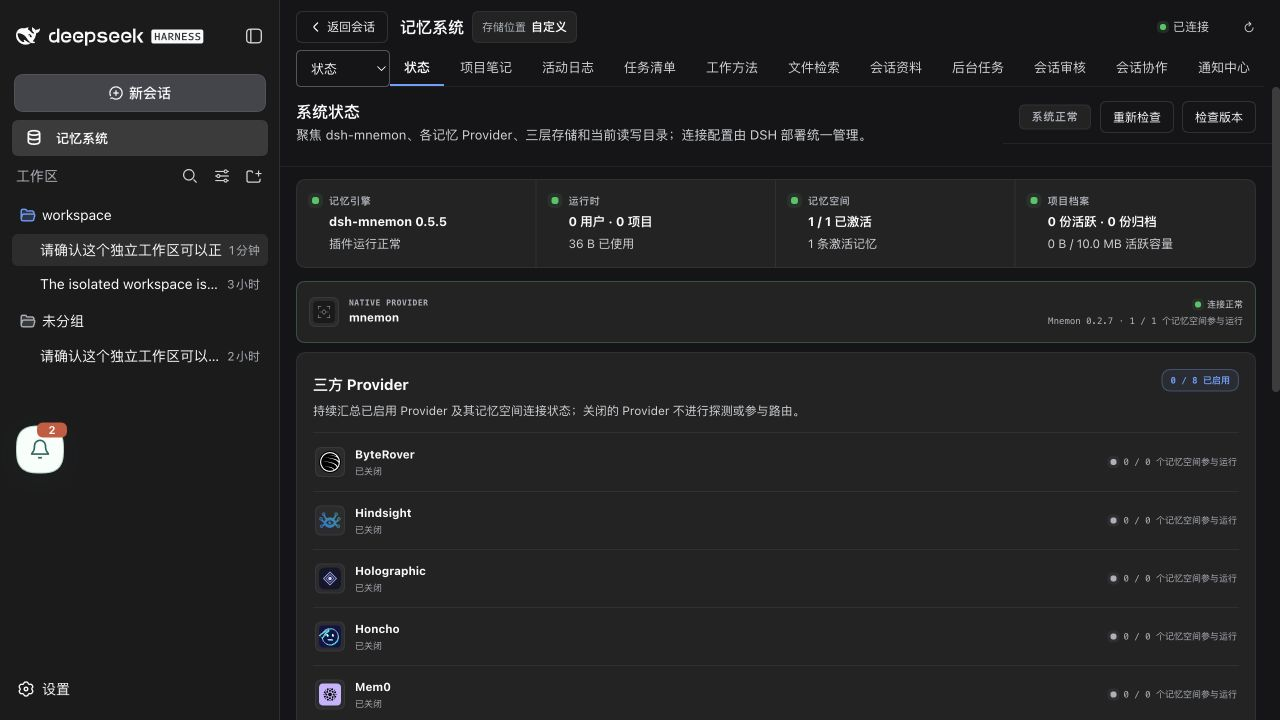
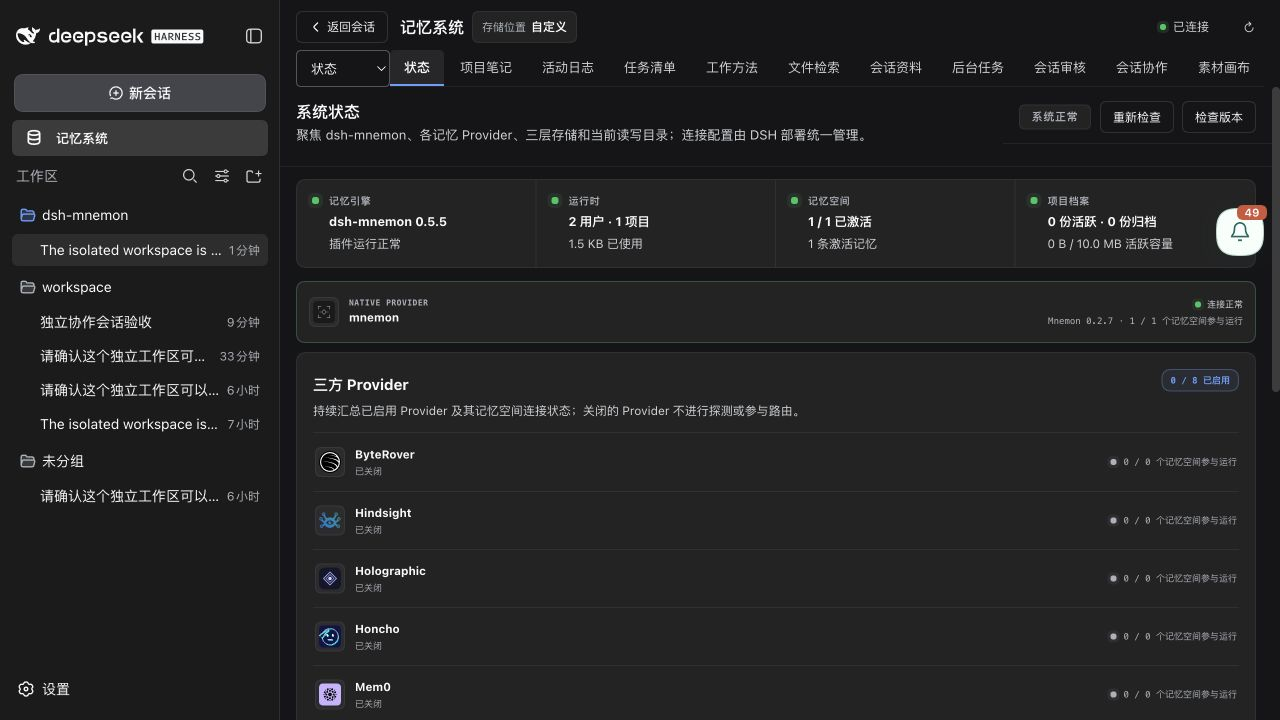
fix(workspace): follow active projects and complete instruction library controls

diff --git a/plugins/dsh-mnemon-source-playbooks/src/client.tsx b/plugins/dsh-mnemon-source-playbooks/src/client.tsx
@@ -1,8 +1,10 @@
 import { SkillFiles } from './file-client.tsx'
+import { LibraryViews } from './library-client.tsx'
 import { installMemorySourceUI, type MemorySourcePageProps, type MemorySourceUIContext } from 'dsh-mnemon/client'
 import { createCollectionPage, RecordActionPanel, type RecordActionPanelOptions } from 'dsh-mnemon-workspace-kit/client'
 export const inject = ['slots']
 const LibraryPage = createCollectionPage({
+  renderRecords: context => <LibraryViews {...context} />,
   "title": {
     "en": "Playbooks",
     "zh-CN": "工作方法"
@@ -87,5 +89,11 @@ const invokeOptions: RecordActionPanelOptions = {
   result: (value, zh) => value && typeof value === 'object' && !Array.isArray(value) && typeof value.text === 'string' ? <pre style={{whiteSpace:'pre-wrap'}}>{value.text}</pre> : <p>{zh ? '已保存。刷新调度面板查看状态。' : 'Saved. Refresh schedules to see their status.'}</p>,
 }
 const scheduleOptions: RecordActionPanelOptions = { title: { en: 'Session schedules', 'zh-CN': '会话调度' }, filter: record => record.kind === 'schedule', buttons: [{ operation: 'stop-schedule', label: { en: 'Stop schedule', 'zh-CN': '停止调度' }, visible: record => record.data.status === 'scheduled' }], details: (record, zh) => <p>{zh ? '状态' : 'Status'}: {String(record.data.status)} · {zh ? '使用次数' : 'Uses'}: {String(record.data.uses)} · {zh ? '剩余次数' : 'Remaining'}: {record.data.status === 'completed' ? '0' : record.data.continuous ? (zh ? '持续' : 'Continuous') : String(record.data.remaining)}<br />{typeof record.data.error === 'string' ? record.data.error : ''}</p> }
-export function Page(props: MemorySourcePageProps) { return <><LibraryPage {...props} /><hr /><RecordActionPanel {...props} options={invokeOptions} /><RecordActionPanel {...props} options={scheduleOptions} /><SkillFiles {...props} /></> }
+const categoryOptions: RecordActionPanelOptions = {
+  title: { en: 'Organize categories', 'zh-CN': '整理分类' }, filter: record => ['prompt', 'skill'].includes(record.kind) && !!record.data.category && record.state !== 'deleted',
+  fields: [{ key: 'category', label: { en: 'New category name', 'zh-CN': '新分类名称' }, type: 'text' }],
+  buttons: [{ operation: 'rename-category', label: { en: 'Rename this category', 'zh-CN': '重命名此分类' } }, { operation: 'clear-category', label: { en: 'Remove this category', 'zh-CN': '移除此分类' } }],
+  details: (record, zh) => <p>{zh ? '本次将修改所选条目同一作用域内的整个分类，保留方法正文与历史。当前分类：' : 'Changes this entire category within the selected record’s scope, preserving contents and history. Current category: '}{String(record.data.category)} · {record.scope}</p>,
+}
+export function Page(props: MemorySourcePageProps) { return <><LibraryPage {...props} /><hr /><RecordActionPanel {...props} options={categoryOptions} /><RecordActionPanel {...props} options={invokeOptions} /><RecordActionPanel {...props} options={scheduleOptions} /><SkillFiles {...props} /></> }
 export function apply(ctx: MemorySourceUIContext): void { installMemorySourceUI(ctx, { sourceTypeId: 'playbooks', pages: [{ id: 'records', label: 'Playbooks', localizedLabel: { en: 'Playbooks', 'zh-CN': '工作方法' }, order: 44, component: Page, navigation: { group: 'sources', primary: true } }] }) }

diff --git a/plugins/dsh-mnemon-source-playbooks/src/index.ts b/plugins/dsh-mnemon-source-playbooks/src/index.ts
@@ -1,5 +1,6 @@
 import { SessionId } from '@deepseek-ai/dsh-session'
 import { promptActions, promptOperation } from './actions.ts'
+import { libraryFields } from './library.ts'
 import { createMemoryMutationReceipt } from 'dsh-mnemon/extension-sdk'
 import type { Context } from '@deepseek-ai/cordis'
 import { createUserMessage } from '@deepseek-ai/dsh-llm'
@@ -21,7 +22,7 @@ export const memoryPlugin = defineMemoryPlugin({ packageName: name, label: { en:
 interface Integration { ctx?: Context; attach?(store: RecordStore): void; changed?(): void; adapter?: DshWorkspaceAdapter }
 export function createPlaybooksSource(config: Config = {}, integration: Integration = {}): MemorySourceDefinition {
   const base = createRecordSource(sourceOptions, config)
-  return { ...base, manifest: { ...base.manifest, actions: [...base.manifest.actions ?? [], ...promptActions] }, create(context) {
+  return { ...base, manifest: { ...base.manifest, routes: (base.manifest.routes ?? []).map(route => ({ ...route, inputSchema: { ...(route.inputSchema as object), properties: { ...((route.inputSchema as { properties: object }).properties), ...libraryFields } } })), actions: [...base.manifest.actions ?? [], ...promptActions] }, create(context) {
     const runtime = base.create(context), store = new RecordStore(sourceRecordDirectory('playbooks', context, config))
     integration.attach?.(store)
     const stop = integration.ctx ? installAgentHooks(integration.ctx, { async beforeStep(input) {
@@ -91,11 +92,12 @@ export function createPlaybooksSource(config: Config = {}, integration: Integrat
         const action = promptActions.find(action => action.id === request.offer.sourceActionId)
         if (!action) { const result = await runtime.mutate!(request); integration.changed?.(); return result }
         if (request.offer.authority !== action.authority) throw new Error('Explicit prompt authority is required')
-        const input = memoryInputRecord(request.input, 'prompt action'), snapshot = await store.read(request.signal), operation = promptOperation[action.id as keyof typeof promptOperation]
+        const input = { ...memoryInputRecord(request.input, 'prompt action') }, snapshot = await store.read(request.signal), operation = promptOperation[action.id as keyof typeof promptOperation]
         if (operation !== 'create') {
           const record = snapshot.records.find(value => value.id === input.id && visibleRecord(value, request.view.scope))
           if (!record || record.version !== input.version) throw new Error('Prompt version changed; read the current record before retrying')
           if (operation === 'update' && record.kind !== 'prompt') throw new Error('Only reusable prompts can be updated through this action')
+          if (operation === 'update' && input.data !== undefined) input.data = { ...record.data, ...memoryInputRecord(input.data, 'prompt data') }
         }
         const result = await enhanced.manage!({ sourceInstanceKey: context.sourceInstanceKey, scope: request.view.scope, mode: 'mutate', operation, input: { ...input, ...(operation === 'create' ? { kind: 'prompt' } : {}) }, expectedRevision: snapshot.revision, confirmed: true, ...(request.signal ? { signal: request.signal } : {}) })
         const records = (result.value as unknown as { records: import('dsh-mnemon-workspace-kit').RecordValue[] }).records

diff --git a/tests/client-sidebar.spec.tsx b/tests/client-sidebar.spec.tsx
@@ -134,7 +134,7 @@ function receiverSensitiveStore<T>(snapshot: T) {
 }
 
 const settings = {
-  getSnapshot: () => ({ status: 'ready' as const, value: {}, writable: true, mode: 'host' as const }),
+  getSnapshot: () => ({ status: 'ready' as const, value: { storageScope: 'workspace' as const }, writable: true, mode: 'host' as const }),
   subscribe: () => () => {}, set: async () => {}, unset: async () => {}, setPath: async () => {}, unsetPath: async () => {},
 }
 const sourcePageDirectory = { getSnapshot: () => [] as const, subscribe: () => () => {} }
@@ -452,7 +452,7 @@ describe('Mnemon canonical workspace launcher', () => {
     ctx.sessions.list = sessions
     ctx.workspaces.list = workspaces
     render(<MnemonWorkspaceHost
-      connection={ctx.connection as never} settingsScope={settings} sessions={ctx.sessions as never} workspaces={ctx.workspaces as never}
+      connection={ctx.connection as never} settingsScope={{ ...settings, getSnapshot: () => ({ ...settings.getSnapshot(), value: { storageScope: 'workspace' as const } }) }} sessions={ctx.sessions as never} workspaces={ctx.workspaces as never}
       localeRuntime={ctx.locale as never} sourcePageDirectory={sourcePageDirectory} navigation={{ open() {}, close() {} }}
       t={t as never} renderSlot={() => null} sessionId="session-1"
     />)
@@ -464,6 +464,20 @@ describe('Mnemon canonical workspace launcher', () => {
     await waitFor(() => expect(document.querySelector('[data-testid="mnemon-canonical-content"]')?.getAttribute('data-workspace-id')).toBe('workspace-2'))
     fireEvent.click([...document.querySelectorAll<HTMLButtonElement>('button')].find(button => button.textContent === 'align-test-workspace')!)
     await waitFor(() => expect(document.querySelector('[data-testid="mnemon-canonical-content"]')?.getAttribute('data-workspace-id')).toBe('workspace-1'))
+  })
+
+  it.each(['global', 'custom'] as const)('follows the active conversation workspace in %s storage without a hidden sticky inspection target', async storageScope => {
+    const ctx = context(), scope = { ...settings, getSnapshot: () => ({ ...settings.getSnapshot(), value: { storageScope } }) }
+    const props = { connection: ctx.connection as never, settingsScope: scope, sessions: ctx.sessions as never, workspaces: ctx.workspaces as never, localeRuntime: ctx.locale as never, sourcePageDirectory, t: t as never }
+    const view = render(<MnemonWorkspaceHost {...props} sessionId="session-1" cwd="/tmp/workspace-one" />)
+    const content = view.getByTestId('mnemon-canonical-content')
+    expect(content.dataset.workspaceId).toBe('workspace-1')
+    view.rerender(<MnemonWorkspaceHost {...props} sessionId="session-2" cwd="/tmp/workspace-two" />)
+    expect(content.dataset.workspaceId).toBe('workspace-2')
+    fireEvent.change(view.getByLabelText('workspace-test-selector'), { target: { value: 'workspace-1' } })
+    expect(content.dataset.workspaceId).toBe('workspace-2')
+    view.rerender(<MnemonWorkspaceHost {...props} sessionId="session-1" cwd="/tmp/workspace-one" />)
+    expect(content.dataset.workspaceId).toBe('workspace-1')
   })
 
   it('renders Builtin with only its owning session and releases a receiver-sensitive locale subscription', () => {

diff --git a/plugins/dsh-mnemon-source-playbooks/src/source.ts b/plugins/dsh-mnemon-source-playbooks/src/source.ts
@@ -1,4 +1,6 @@
 import { reviseRecord, visibleRecord, type RecordSourceOptions } from 'dsh-mnemon-workspace-kit'
+import { memoryInputText } from 'dsh-mnemon/extension-sdk'
+import { filterLibrary } from './library.ts'
 export const sourceOptions: RecordSourceOptions = {
   transfer: true,
   typeId: 'playbooks', role: 'instruction-library', label: 'Playbooks', description: 'Approved reusable skills and prompts with progressive disclosure.',
@@ -15,12 +17,20 @@ export const sourceOptions: RecordSourceOptions = {
     if (record.data.category !== undefined && (typeof record.data.category !== 'string' || record.data.category.length > 100)) throw new Error('Invalid category')
   },
   visible(record) { return record.data.enabled !== false },
+  search: filterLibrary,
   project(records) { return 'Approved playbooks (read the full content before use):\n' + records.filter(record => record.kind !== 'schedule' && record.data.enabled !== false).map(record => `${record.id} · ${record.kind} · ${record.title}${record.data.category ? ' · ' + String(record.data.category) : ''}`).join('\n') + '\nSession prompt schedules: ' + records.filter(record => record.kind === 'schedule').map(record => `${record.id}: ${String(record.data.status)}, uses=${String(record.data.uses)}`).join('; ') },
   mutate(operation, input, { records, scope }) {
-    if (operation !== 'toggle') throw new Error('Unsupported playbook operation')
+    if (!['toggle', 'rename-category', 'clear-category'].includes(operation)) throw new Error('Unsupported playbook operation')
     const record = records.find(record => record.id === input.id && visibleRecord(record, scope))
     if (!record) throw new Error('Playbook not found')
     if (input.version !== undefined && input.version !== record.version) throw new Error('Playbook version changed')
+    if (operation !== 'toggle') {
+      const previous = record.data.category
+      if (!['prompt', 'skill'].includes(record.kind) || typeof previous !== 'string' || !previous) throw new Error('Choose a categorized playbook')
+      const category = operation === 'clear-category' ? '' : memoryInputText(input.category, 'category', 100)!
+      for (const item of records) if (['prompt', 'skill'].includes(item.kind) && item.state !== 'deleted' && item.scope === record.scope && item.workspaceId === record.workspaceId && item.sessionId === record.sessionId && item.data.category === previous && visibleRecord(item, scope)) { reviseRecord(item, operation); item.data.category = category }
+      return
+    }
     reviseRecord(record, 'toggle'); record.data.enabled = !record.data.enabled
   },
 }

diff --git a/plugins/dsh-mnemon-source-playbooks/src/library-client.tsx b/plugins/dsh-mnemon-source-playbooks/src/library-client.tsx
@@ -1,0 +1,15 @@
+import { useState, type ReactNode } from 'react'
+import type { MemorySourcePageProps } from 'dsh-mnemon/client'
+import type { RecordValue } from 'dsh-mnemon-workspace-kit'
+import { filterLibrary } from './library.ts'
+
+export function LibraryViews({ props, records, renderRecord }: { props: MemorySourcePageProps; records: RecordValue[]; renderRecord(record: RecordValue): ReactNode }) {
+  const zh = props.locale.startsWith('zh'), [filters, setFilters] = useState({ name: '', category: '', tag: '', summary: '' }), [limit, setLimit] = useState(25)
+  const labels = { name: zh ? '方法名称' : 'Playbook name', category: zh ? '方法分类' : 'Playbook category', tag: zh ? '标签筛选' : 'Filter tags', summary: zh ? '简介筛选' : 'Filter descriptions' }
+  const categories = [...new Set(records.flatMap(record => typeof record.data.category === 'string' && record.data.category ? [record.data.category] : []))].sort()
+  const filtered = filterLibrary(records, filters)
+  return <div><div aria-label={zh ? '方法筛选' : 'Playbook filters'} style={{ display: 'grid', gridTemplateColumns: 'repeat(auto-fit,minmax(140px,1fr))', gap: 12, margin: '16px 0' }}>{(Object.keys(labels) as Array<keyof typeof labels>).map(key => <label key={key}>{labels[key]}{key === 'category' ? <select value={filters.category} onChange={event => { setFilters(old => ({ ...old, category: event.target.value })); setLimit(25) }}><option value="">{zh ? '全部分类' : 'All categories'}</option>{categories.map(category => <option key={category}>{category}</option>)}</select> : <input value={filters[key]} onChange={event => { setFilters(old => ({ ...old, [key]: event.target.value })); setLimit(25) }} />}</label>)}</div>
+    <button onClick={() => { setFilters({ name: '', category: '', tag: '', summary: '' }); setLimit(25) }}>{zh ? '清除方法筛选' : 'Clear playbook filters'}</button><p aria-live="polite">{filtered.length} {zh ? '项匹配方法' : 'matching playbooks'}</p>
+    <div className="mc-list">{filtered.slice(0, limit).map(renderRecord)}</div>{filtered.length > limit && <button onClick={() => setLimit(old => old + 25)}>{zh ? '加载更多方法' : 'Load more playbooks'}</button>}
+  </div>
+}

diff --git a/src/client/workspace-mount.tsx b/src/client/workspace-mount.tsx
@@ -108,6 +108,12 @@ export function MnemonBuiltinWorkspaceHost(props: MnemonBuiltinWorkspaceHostProp
 
 /** Shared workspace body; its DSH registration owns Source child-render authority. */
 export function MnemonWorkspaceHost(props: MnemonWorkspaceHostProps): JSX.Element {
+  const subscribeStorageMode = useCallback((listener: () => void) => props.settingsScope.subscribe(listener), [props.settingsScope])
+  const getStorageMode = useCallback(() => {
+    const config = props.settingsScope.getSnapshot().value
+    return config?.storageScope ?? (config?.dataDir?.trim() ? 'custom' : 'global')
+  }, [props.settingsScope])
+  const storageMode = useSyncExternalStore(subscribeStorageMode, getStorageMode, getStorageMode)
   const subscribeLocale = useCallback((listener: () => void) => props.localeRuntime.subscribe(listener), [props.localeRuntime])
   const getLocale = useCallback(() => props.localeRuntime.getSnapshot(), [props.localeRuntime])
   const subscribeSessions = useCallback((listener: () => void) => props.sessions.list.subscribe(listener), [props.sessions.list])
@@ -125,7 +131,9 @@ export function MnemonWorkspaceHost(props: MnemonWorkspaceHostProps): JSX.Elemen
     : workspaces.items.find(workspace => normalizePath(workspace.path) === normalizePath(currentCwd))
   const fallbackWorkspace = effectiveWorkspace ?? workspaces.items[0]
   const selectedExists = selectedWorkspaceId !== undefined && workspaces.items.some(workspace => String(workspace.workspaceId) === selectedWorkspaceId)
-  const resolvedSelectedId = selectedExists ? selectedWorkspaceId : fallbackWorkspace === undefined ? undefined : String(fallbackWorkspace.workspaceId)
+  // Only Workspace mode exposes a persistent inspection picker. Other modes
+  // follow the current conversation so an invisible old selection cannot win.
+  const resolvedSelectedId = storageMode === 'workspace' && selectedExists ? selectedWorkspaceId : fallbackWorkspace === undefined ? undefined : String(fallbackWorkspace.workspaceId)
 
   useEffect(() => {
     if (resolvedSelectedId !== selectedWorkspaceId) setSelectedWorkspaceId(resolvedSelectedId)

diff --git a/plugins/dsh-mnemon-source-playbooks/tests/actions.spec.ts b/plugins/dsh-mnemon-source-playbooks/tests/actions.spec.ts
@@ -17,8 +17,16 @@ it('gates prompt authoring and invocation, rejects stale versions and duplicate 
     const action = (id: string) => turn.view.actionOffers.find(value => value.sourceActionId === id)!.id
     await expect(turn.executeAction(action('create-prompt'), { title: 'Check', content: 'Inspect {{target}}', data: { tags: 'quality', summary: 'Check results' } }, () => false)).rejects.toThrow(/authoriz/i)
     const created = await turn.executeAction(action('create-prompt'), { title: 'Check', content: 'Inspect {{target}}', data: { tags: 'quality', summary: 'Check results' } }, () => true)
-    const book = created.details as { id: string; version: number }
+    let book = created.details as { id: string; version: number }
     expect(book.id).toBeTypeOf('string')
+    const updated = await turn.executeAction(action('update-prompt'), { id: book.id, version: book.version, data: { summary: 'Validate exact results', category: 'Quality' } }, () => true)
+    book = updated.details as { id: string; version: number }
+    const read = await runner.beginTurn({ scope: { storage: 'custom', workspaceId: '/project', sessionId: 'one' } })
+    const route = read.view.routes.find(route => route.sourceRouteId === 'search')!
+    const found = await read.executeRoute(route.id, { name: 'check', category: 'Quality', tag: 'quality', summary: 'exact' })
+    expect(found.items).toHaveLength(1)
+    expect(found.items[0]?.text).toContain('"enabled":true')
+    expect((await read.executeRoute(route.id, { name: 'check', category: 'Other' })).items).toHaveLength(0)
     await expect(turn.executeAction(action('use-prompt'), { id: book.id, version: 99 }, () => true)).rejects.toThrow('version changed')
     const scheduled = await turn.executeAction(action('schedule-prompt'), { id: book.id, version: book.version, variables: { target: 'tests' }, count: 0 }, () => true)
     await expect(turn.executeAction(action('schedule-prompt'), { id: book.id, version: book.version, variables: { target: 'tests' } }, () => true)).rejects.toThrow('active schedule')

diff --git a/plugins/dsh-mnemon-source-playbooks/tests/source.spec.ts b/plugins/dsh-mnemon-source-playbooks/tests/source.spec.ts
@@ -14,4 +14,16 @@ describe('playbooks', () => {
    await sourceOptions.mutate!('toggle', { id: record.id }, { records: [record], scope: { storage: 'custom', workspaceId: '/project-a' } })
    expect(record.data.enabled).toBe(false); expect(record.history[0]?.data.enabled).toBe(true)
  })
+ it('renames and removes categories within the selected scope while retaining content and prior metadata', async () => {
+   const first = value({ enabled: true, slug: 'first', category: 'Review' }), second = { ...value({ enabled: true, slug: 'second', category: 'Review' }), id: 'second' }
+   const global = { ...value({ enabled: true, slug: 'global', category: 'Review' }), id: 'global', scope: 'global' as const }, other = { ...value({ enabled: true, slug: 'other', category: 'Review' }), id: 'other', workspaceId: '/project-b' }
+   const records = [first, second, global, other], scope = { storage: 'custom' as const, workspaceId: '/project-a' }
+   await sourceOptions.mutate!('rename-category', { id: first.id, version: 1, category: 'Quality' }, { records, scope })
+   expect(records.map(record => record.data.category)).toEqual(['Quality', 'Quality', 'Review', 'Review'])
+   expect(first.history[0]?.data.category).toBe('Review')
+   expect(first.content).toBe('Content')
+   await expect(async () => sourceOptions.mutate!('clear-category', { id: first.id, version: 1 }, { records, scope })).rejects.toThrow('version changed')
+   await sourceOptions.mutate!('clear-category', { id: first.id, version: 2 }, { records, scope })
+   expect(records.map(record => record.data.category)).toEqual(['', '', 'Review', 'Review'])
+ })
 })

diff --git a/plugins/dsh-mnemon-source-playbooks/src/schedule.ts b/plugins/dsh-mnemon-source-playbooks/src/schedule.ts
@@ -1,7 +1,8 @@
 import type { MemoryJsonValue, MemoryOperationScope } from 'dsh-mnemon/contracts'
-import { newRecord, RecordStore, reviseRecord, today, visibleRecord, type RecordValue } from 'dsh-mnemon-workspace-kit'
+import { newRecord, RecordStore, reviseRecord, visibleRecord, type RecordValue } from 'dsh-mnemon-workspace-kit'
 export function renderPrompt(content: string, variables: Record<string, MemoryJsonValue>, scope: MemoryOperationScope): string {
-  const values = { ...variables, date: today(), time: new Date().toISOString().slice(11, 19) + 'Z', workspace: scope.workspaceId ?? '', session: scope.sessionId ?? '' }
+  const timestamp = new Date().toISOString()
+  const values = { ...variables, date: timestamp.slice(0, 10), time: timestamp.slice(11, 19) + 'Z', workspace: scope.workspaceId ?? '', session: scope.sessionId ?? '' }
   const rendered = content.replace(/\{\{\s*([a-zA-Z][a-zA-Z0-9_]*)\s*\}\}/g, (_whole, name: string) => {
     const value = values[name as keyof typeof values]
     if (typeof value !== 'string' && typeof value !== 'number' && typeof value !== 'boolean') throw new Error('Missing prompt variable: ' + name)

diff --git a/plugins/dsh-mnemon-source-playbooks/src/library.ts b/plugins/dsh-mnemon-source-playbooks/src/library.ts
@@ -1,0 +1,15 @@
+import type { MemoryJsonValue } from 'dsh-mnemon/contracts'
+import type { RecordValue } from 'dsh-mnemon-workspace-kit'
+
+export const libraryFields = Object.fromEntries(['name', 'category', 'tag', 'summary'].map(key => [key, { type: 'string', maxLength: 200 }]))
+export function filterLibrary(records: RecordValue[], input: { [key: string]: MemoryJsonValue }): RecordValue[] {
+  const terms = Object.fromEntries(Object.keys(libraryFields).map(key => {
+    const value = input[key]
+    if (value !== undefined && (typeof value !== 'string' || value.length > 200)) throw new Error('Invalid playbook filter: ' + key)
+    return [key, (value ?? '').toString().trim().toLocaleLowerCase()]
+  }))
+  return records.filter(record => (!terms.name || record.title.toLocaleLowerCase().includes(terms.name))
+    && (!terms.category || String(record.data.category ?? '').toLocaleLowerCase() === terms.category)
+    && (!terms.tag || String(record.data.tags ?? '').toLocaleLowerCase().includes(terms.tag))
+    && (!terms.summary || String(record.data.summary ?? '').toLocaleLowerCase().includes(terms.summary)))
+}

diff --git a/docs/en/guides/workspace-services.md b/docs/en/guides/workspace-services.md
@@ -1,0 +1,73 @@
+# Composable workspace services
+
+[简体中文](../../zh-CN/guides/workspace-services.md)
+
+The optional workspace composition combines 15 Sources: the existing Runtime, Documents and Memory Spaces, plus 12 independently installable workspace Sources. The Starter installs their packages with optional entries disabled. Enable the Sources you need and select `workspace` explicitly. The existing three-tier composition remains the default.
+
+## Ownership and composition
+
+A Source owns its store, revisions, proposals, queries, mutations, lifecycle and management UI. Memory Spaces owns its Provider children. Workspace is a complete Strategy that selects public Source capabilities and budgets a single View. Its five independent enhancements are Journal capture, Review cycle, Prompt schedule, Team coordination and Focus. Enhancements contribute pure policies through `dsh-mnemon-strategy-workspace/extension-sdk`; they cannot run commands, write files, send messages or borrow another Source's authority.
+
+`dsh-mnemon-workspace-kit` publishes reusable record, file, asset and DSH adapter utilities. Plugins declare these dependencies and import published exports. The Host authenticates and routes generic operations, owns shared budgets and renders registered Source pages. It has no new business-plugin allowlist. Unloading one Source removes its capabilities while retaining its data.
+
+## Capability map
+
+| Work | Owning component | Behavior |
+|---|---|---|
+| Preferences and working context | Runtime | Separate user profile, scope, revision history and explicit writes |
+| Project decisions and facts | Project context | Branch scopes, candidate review, repeated-signal deduplication, archive and restore |
+| Searchable narratives and long-term recall | Documents; Memory Spaces | Existing document lifecycle and independent Provider-backed stores, including the actual Mnemon CLI |
+| Progress, daily results and feedback | Journal | Dated and branch-attributed entries, exact feedback provenance, result capture and durable write reminders |
+| Personal, work, project and daily tasks | Tasks | Review, priority quadrants, deadlines, status history, combined filters and paging |
+| Reusable instructions and skills | Playbooks | Native skill discovery, configured Markdown file editing, enablement, summaries, tags and scoped category changes |
+| Prompt use | Playbooks; Prompt schedule enhancement | Variable preview, reviewed authoring, one-time use, continuous/interval schedules, explicit immediate wake, usage and stop history |
+| Local information | Files | Explicit roots, file-name/content search, bounded reads, cancellation and real-path checks; instruction files can be inspected through this Source |
+| Conversation history | Sessions | Visible-message search, configured JSONL imports, exact bookmarks with neighboring text, completed-turn forks and aliases |
+| Ordinary conversation operations | Sessions; public DSH adapter | Create, fork, rename, send, explicitly wake/steer, read native presets/models and retain request receipts |
+| Team collaboration | Collaboration | Rooms, membership, directed messages/images, read receipts, presence, archives and file/service/note reservations |
+| Background execution | Agent Jobs | Configured CLI adapters, frozen prompts/context/image copies, reviewed execution, queue/logs/statistics, cancellation, timeout, retry/resume and retention |
+| Conversation review | Review; Review cycle enhancement | Persistent independent reviewer, visible transcript only, layered constraints, question/reset/history, severity and attributed feedback; suggestions transfer into the receiving Source's pending queue |
+| Temporary notes and materials | Canvas | Durable freeform notes, referenced files and copied uploads; media preview, drag/resize/pan/zoom, scoped views, stable references and bounded model reads |
+| Notifications and channel messages | Notifications | Personal inbox, draggable bell, attachments, exact reviewed targets and channel receipts through configurable HTTP bridges or typed transport adapters |
+| Cross-device data | Sync | Explicit project/global export tracks, separate Git snapshots, three-way conflicts, local/remote/both decisions and separately reviewed push |
+| Context and interface settings | Sessions; DSH UI | Public capacity hints, native model/preset settings and session navigation; responsive Source pages |
+| Installed versions and updates | Existing Host and DSH plugin management | Independent package metadata, profile-owned updates and explicit activation |
+
+Categories are derived from saved records. Rename/removal changes only the selected category's own project or global scope and keeps content/history. Creating an item with a new category makes that category available. Prompt filters combine name, exact category, tag and description; full text remains available through search. Immediate use always uses once; an interval of zero also means once. Date/time variables use UTC at invocation.
+
+## Start an isolated development instance
+
+From a clean checkout with published DSH dependencies and a local Mnemon executable:
+
+```sh
+pnpm install --frozen-lockfile
+pnpm build
+pnpm build:plugins
+node scripts/serve-workspace.mjs --state-dir ../services --mnemon /absolute/path/to/mnemon --port 5279 --workspace-plugins
+```
+
+The supervisor copies the selected Mnemon binary, isolates `DSH_HOME` and `MNEMON_DATA_DIR`, and retains the profile, logs, database and synthetic workspace below `--state-dir`. It also writes `workspace.code-workspace`, containing this checkout and the synthetic workspace. Add the actual checkout using DSH's Add workspace button to work with the isolated Git branch. The printed authenticated URL is local access information; keep it out of commits and screenshots.
+
+The fixture model and CLI worker validate orchestration. Explicit test markers drive reviewed tool calls and synthetic token-usage readings. They do not validate model quality, external provider billing or third-party account delivery. `--model configured` uses the caller's configured model environment without storing credentials in the repository. Mnemon Native runs the real CLI on demand; it does not require a permanent daemon. Embedding service configuration is independent.
+
+Send `SIGUSR2` to the printed supervisor PID to restart DSH and retain state. Stop the supervisor to stop its child services; retained data remains. Full supervisor restart reloads fixture/profile generation. The development patch explicitly enables the full composition and uses a larger shared View budget; production configurations should choose their own Sources and budget.
+
+## Data, authority and recovery
+
+Model memory suggestions remain pending until accepted. Session, prompt, process and external-message actions have distinct authority and exact-plan/version checks. Filesystem roots and channel origins are configured explicitly. Cross-session messages and reviewer advice preserve plugin attribution. Execution claims are persisted before effects; uncertain jobs or deliveries require inspection and are not silently replayed.
+
+In Global and Custom storage, project context follows the current conversation. Workspace storage exposes a separate inspection selector with an alignment indicator. Store placement and project identity are distinct. Saved drafts and asynchronous responses cannot cross a changed workspace binding.
+
+Turning off a Source retains its store. Export or back up data before changing roots; switching a root does not migrate data. Sync transfers declared tracks, keeps history, rejects foreign project identity and never pushes automatically. Interrupted schedules retain their reservations. Cleanup is explicit and preserves live jobs and recent unreferenced assets.
+
+Native renderer integration uses public slots and services. Bookmarks use an exact Source-owned reader and a separate native conversation navigation action. The native renderer is not replaced. CLI adapters and notification bridges are explicit integration points; configure the desired installed executable or channel service. The retained local acceptance profile connects only synthetic recipients.
+
+## Verification
+
+```sh
+pnpm verify
+pnpm verify:plugins
+pnpm release:intent
+```
+
+The first command validates documentation, types, deterministic builds, all package/root tests, a real Headless profile and published contents. The artifact gate installs every independent tarball without workspace links and exercises an external consumer, Starter upgrade and optional Strategy activation in real DSH. See the [retained WebUI evidence](../../workspace-context-validation.md) for actual outcomes, screenshots and limitations, and the [implementation inventory](../../plans/composable-workspace-context.md) for ownership criteria.

diff --git a/docs/zh-CN/guides/workspace-services.md b/docs/zh-CN/guides/workspace-services.md
@@ -1,0 +1,73 @@
+# 可组合的工作区服务
+
+[English](../../en/guides/workspace-services.md)
+
+可选工作区组合包含 15 个 Source：已有的 Runtime、Documents、Memory Spaces，以及 12 个可独立安装的工作区 Source。Starter 安装这些软件包，但默认关闭可选入口；按需启用并明确选择 `workspace` 策略。原有三层组合仍为默认值。
+
+## 职责与组合
+
+Source 自己管理存储、版本、建议、检索、修改、生命周期和页面；Memory Spaces 自己管理其 Provider 子插件。Workspace 是完整策略，选择公开能力并为一个 View 分配预算。它有五个独立增强插件：日志记录、审核周期、提示调度、团队协作和专注上下文。增强插件通过 `dsh-mnemon-strategy-workspace/extension-sdk` 提交纯政策，不能运行程序、写文件、发消息，也不借用其他 Source 的权限。
+
+`dsh-mnemon-workspace-kit` 发布通用记录、文件、附件和 DSH 适配工具。插件明确声明依赖，只导入公开出口。Host 负责通用操作的认证、路由、共享预算和注册页面的展示，没有新增业务插件白名单。卸载某个 Source 会移除其能力并保留数据。
+
+## 能力对应表
+
+| 工作 | 负责组件 | 行为 |
+|---|---|---|
+| 偏好与工作上下文 | Runtime | 独立用户档案、作用域、版本历史与明确写入 |
+| 项目约定与事实 | Project context | 分支范围、候选审核、重复信号去重、归档与恢复 |
+| 完整项目文档与长期检索 | Documents；Memory Spaces | 文档生命周期与独立 Provider 存储，包含实际 Mnemon CLI |
+| 项目进展、每日成果和反馈 | Journal | 日期与分支来源、原始反馈、成果记录、持久写入提醒 |
+| 个人、工作、项目和每日任务 | Tasks | 审核、重要/紧急四象限、截止日期、状态历史、组合筛选与分页 |
+| 可复用方法与技能 | Playbooks | 原生技能目录、配置目录中的 Markdown 编辑、启用状态、简介、标签与分类整理 |
+| 提示词调用 | Playbooks；提示调度增强 | 变量预览、授权创建编辑、单次/持续/间隔调度、明确立即唤醒、使用与停止历史 |
+| 本地资料 | Files | 明确目录、文件名/内容检索、有界读取、取消与真实路径检查；可用于检查指令文件 |
+| 会话历史 | Sessions | 可见消息检索、配置 JSONL 导入、精确书签与相邻正文、完成轮次分叉及别名 |
+| 普通会话操作 | Sessions；公开 DSH 适配器 | 创建、分叉、改名、投递、明确唤醒/引导、原生模型与预设、持久请求回执 |
+| 团队协作 | Collaboration | 房间、成员、定向消息与图片、已读、在线状态、归档、文件/服务/便签资源声明 |
+| 后台执行 | Agent Jobs | 配置 CLI 适配器、固定提示词/上下文/图片副本、审核计划、队列/日志/负载、取消/超时/重试/恢复和保留策略 |
+| 会话审核 | Review；审核周期增强 | 持续独立审核员、仅可见对话、分层约束、提问/重置/历史、严重度及有来源反馈；建议转入目标 Source 的待审核队列 |
+| 临时信息与素材 | Canvas | 持久自由便签、文件引用与上传副本、媒体预览、拖动/缩放/尺寸、作用域视角、稳定引用与有界模型读取 |
+| 通知与渠道消息 | Notifications | 个人收件箱、可拖动铃铛、附件、经过审核的目标和渠道回执；支持配置 HTTP 桥或类型化传输适配器 |
+| 跨设备数据 | Sync | 明确项目/全局导出范围、独立 Git 快照、三方冲突、本机/远端/两者保留和独立审核推送 |
+| 上下文与界面设置 | Sessions；DSH UI | 公开容量提示、原生模型/预设设置、会话导航及响应式 Source 页面 |
+| 安装版本与更新 | 既有 Host 与 DSH 插件管理 | 独立包元信息、profile 内更新和明确启用 |
+
+分类由实际条目产生；重命名或移除只影响所选分类自己的项目或全局范围，保留正文与历史。新条目使用新分类后即可筛选该分类。提示词可按名称、精确分类、标签和简介共同筛选，并支持全文检索。立即使用固定一次，间隔为 0 也只使用一次；日期和时间变量在实际调用时按 UTC 展开。
+
+## 启动独立开发实例
+
+在使用已发布 DSH 依赖的独立检出中，指定本机 Mnemon 程序：
+
+```sh
+pnpm install --frozen-lockfile
+pnpm build
+pnpm build:plugins
+node scripts/serve-workspace.mjs --state-dir ../services --mnemon /absolute/path/to/mnemon --port 5279 --workspace-plugins
+```
+
+监督进程复制指定 Mnemon 二进制，隔离 `DSH_HOME` 和 `MNEMON_DATA_DIR`，将 profile、日志、数据库与合成工作区保留在 `--state-dir`。同时生成包含本检出与合成工作区的 `workspace.code-workspace`。通过 DSH“添加工作区”加入实际代码目录，即可操作隔离分支。输出的带认证 URL 属于本机访问资料，不应进入提交或截图。
+
+固定模型和 CLI 测试程序用于检验编排。显式测试标记驱动经过审核的工具调用与合成 token 用量，不代表模型质量、外部计费或第三方账号实际送达。`--model configured` 使用调用进程的模型环境，不把凭证保存在仓库。Mnemon Native 按需运行真实 CLI，不需要常驻守护进程；嵌入服务另行配置。
+
+向输出的监督进程 PID 发送 `SIGUSR2` 可保留数据并重启 DSH；停止监督进程会停止其子服务，但保留数据。完整重启监督进程会重新载入测试服务和 profile 生成逻辑。开发 patch 明确启用完整组合并扩大共享 View 预算；正式配置按实际需要选择 Source 与预算。
+
+## 数据、权限与恢复
+
+模型提出的记忆建议在采纳前保持待审核。会话、提示词、程序与外部消息动作分别检查权限，以及精确计划或版本。文件根和渠道来源均需明确配置；跨会话消息和审核意见保留插件来源。产生外部效果前先持久登记执行资格，不确定的任务或投递不会自动重放。
+
+全局与自定义存储模式下，项目上下文跟随当前会话。工作区存储模式提供独立检查选择器和对齐提示。数据存放位置与项目身份分别管理；切换工作区后，旧草稿和异步响应不能覆盖当前页面。
+
+关闭 Source 保留其存储。改变数据根之前应导出或备份，切换根不会自动迁移。同步只传输声明的范围、保留历史、拒绝其他项目身份，且不会自动推送。调度中断保留已领取记录。清理需明确操作，保留活动任务和近期无引用附件。
+
+原生集成使用公开插槽与服务。书签使用 Source 自己的精确阅读区，并提供独立原生会话导航，不替换宿主渲染器。CLI 适配器与通知桥是明确的集成入口，按需要配置已安装程序或渠道服务；保留的本地验收 profile 仅连接合成收件目标。
+
+## 验证
+
+```sh
+pnpm verify
+pnpm verify:plugins
+pnpm release:intent
+```
+
+第一条命令检查文档、类型、确定性构建、全部插件与根测试、真实 Headless profile 及发布内容；制品检查将每个独立 tarball 安装到没有工作区链接的环境，验证外部消费者、Starter 升级和真实 DSH 多策略启用。实际结果、截图与边界见[WebUI 验收记录](../../workspace-context-validation.md)，职责标准见[实现清单](../../plans/composable-workspace-context.md)。
